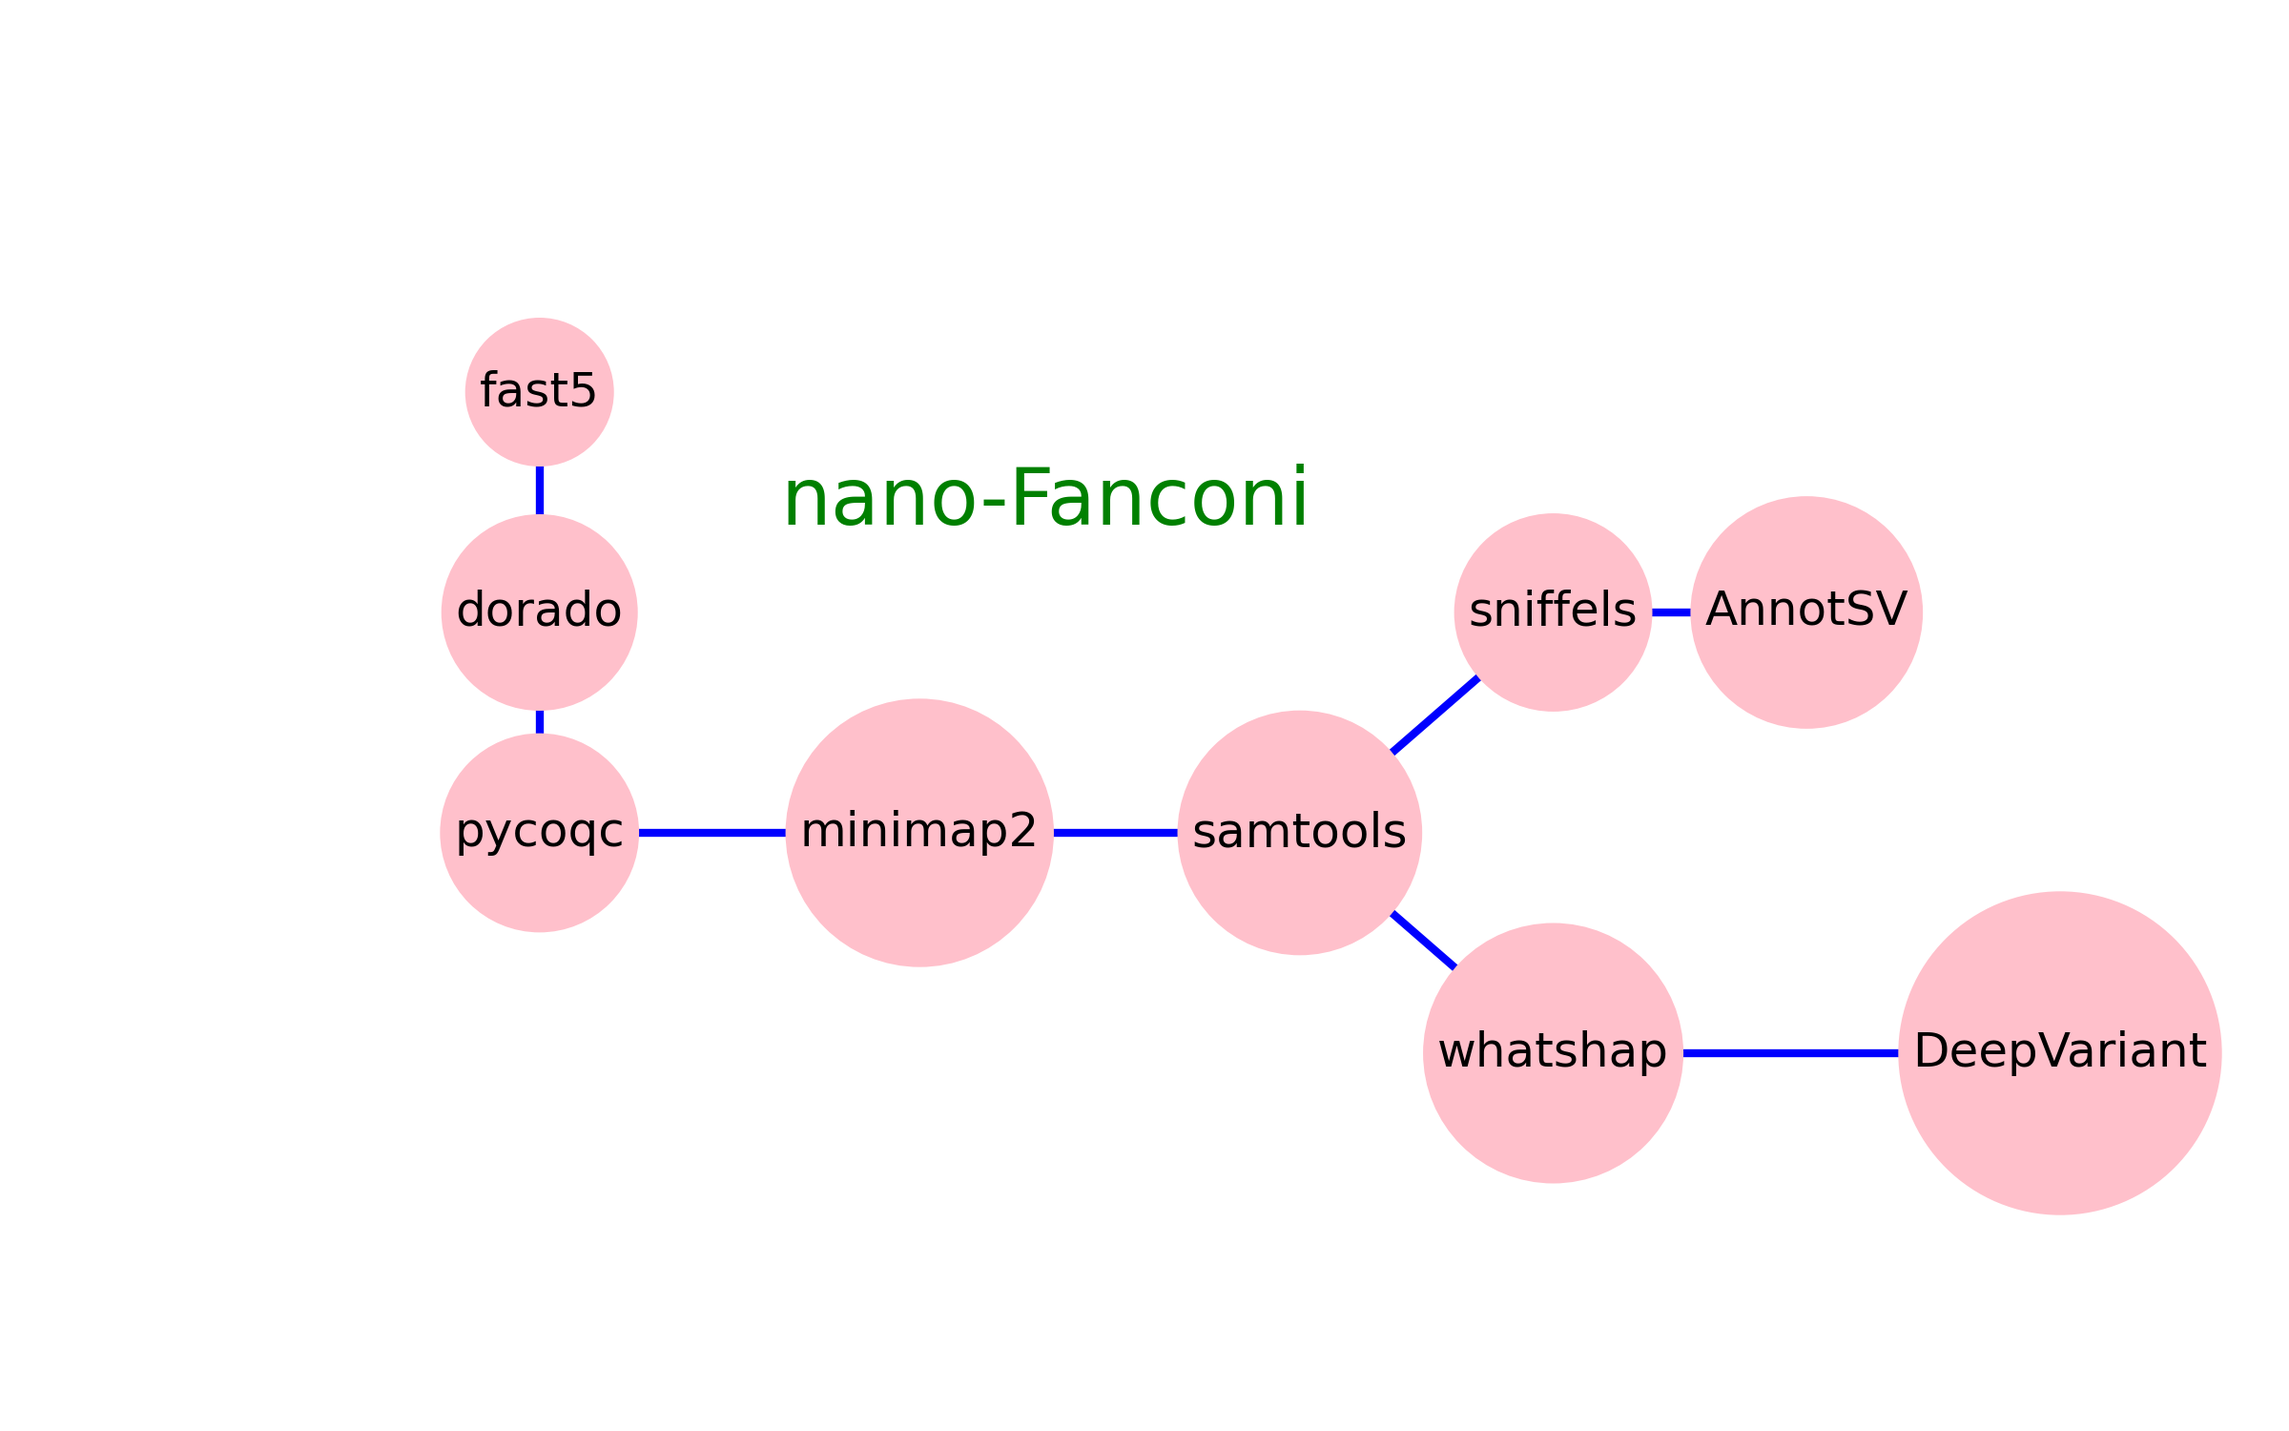
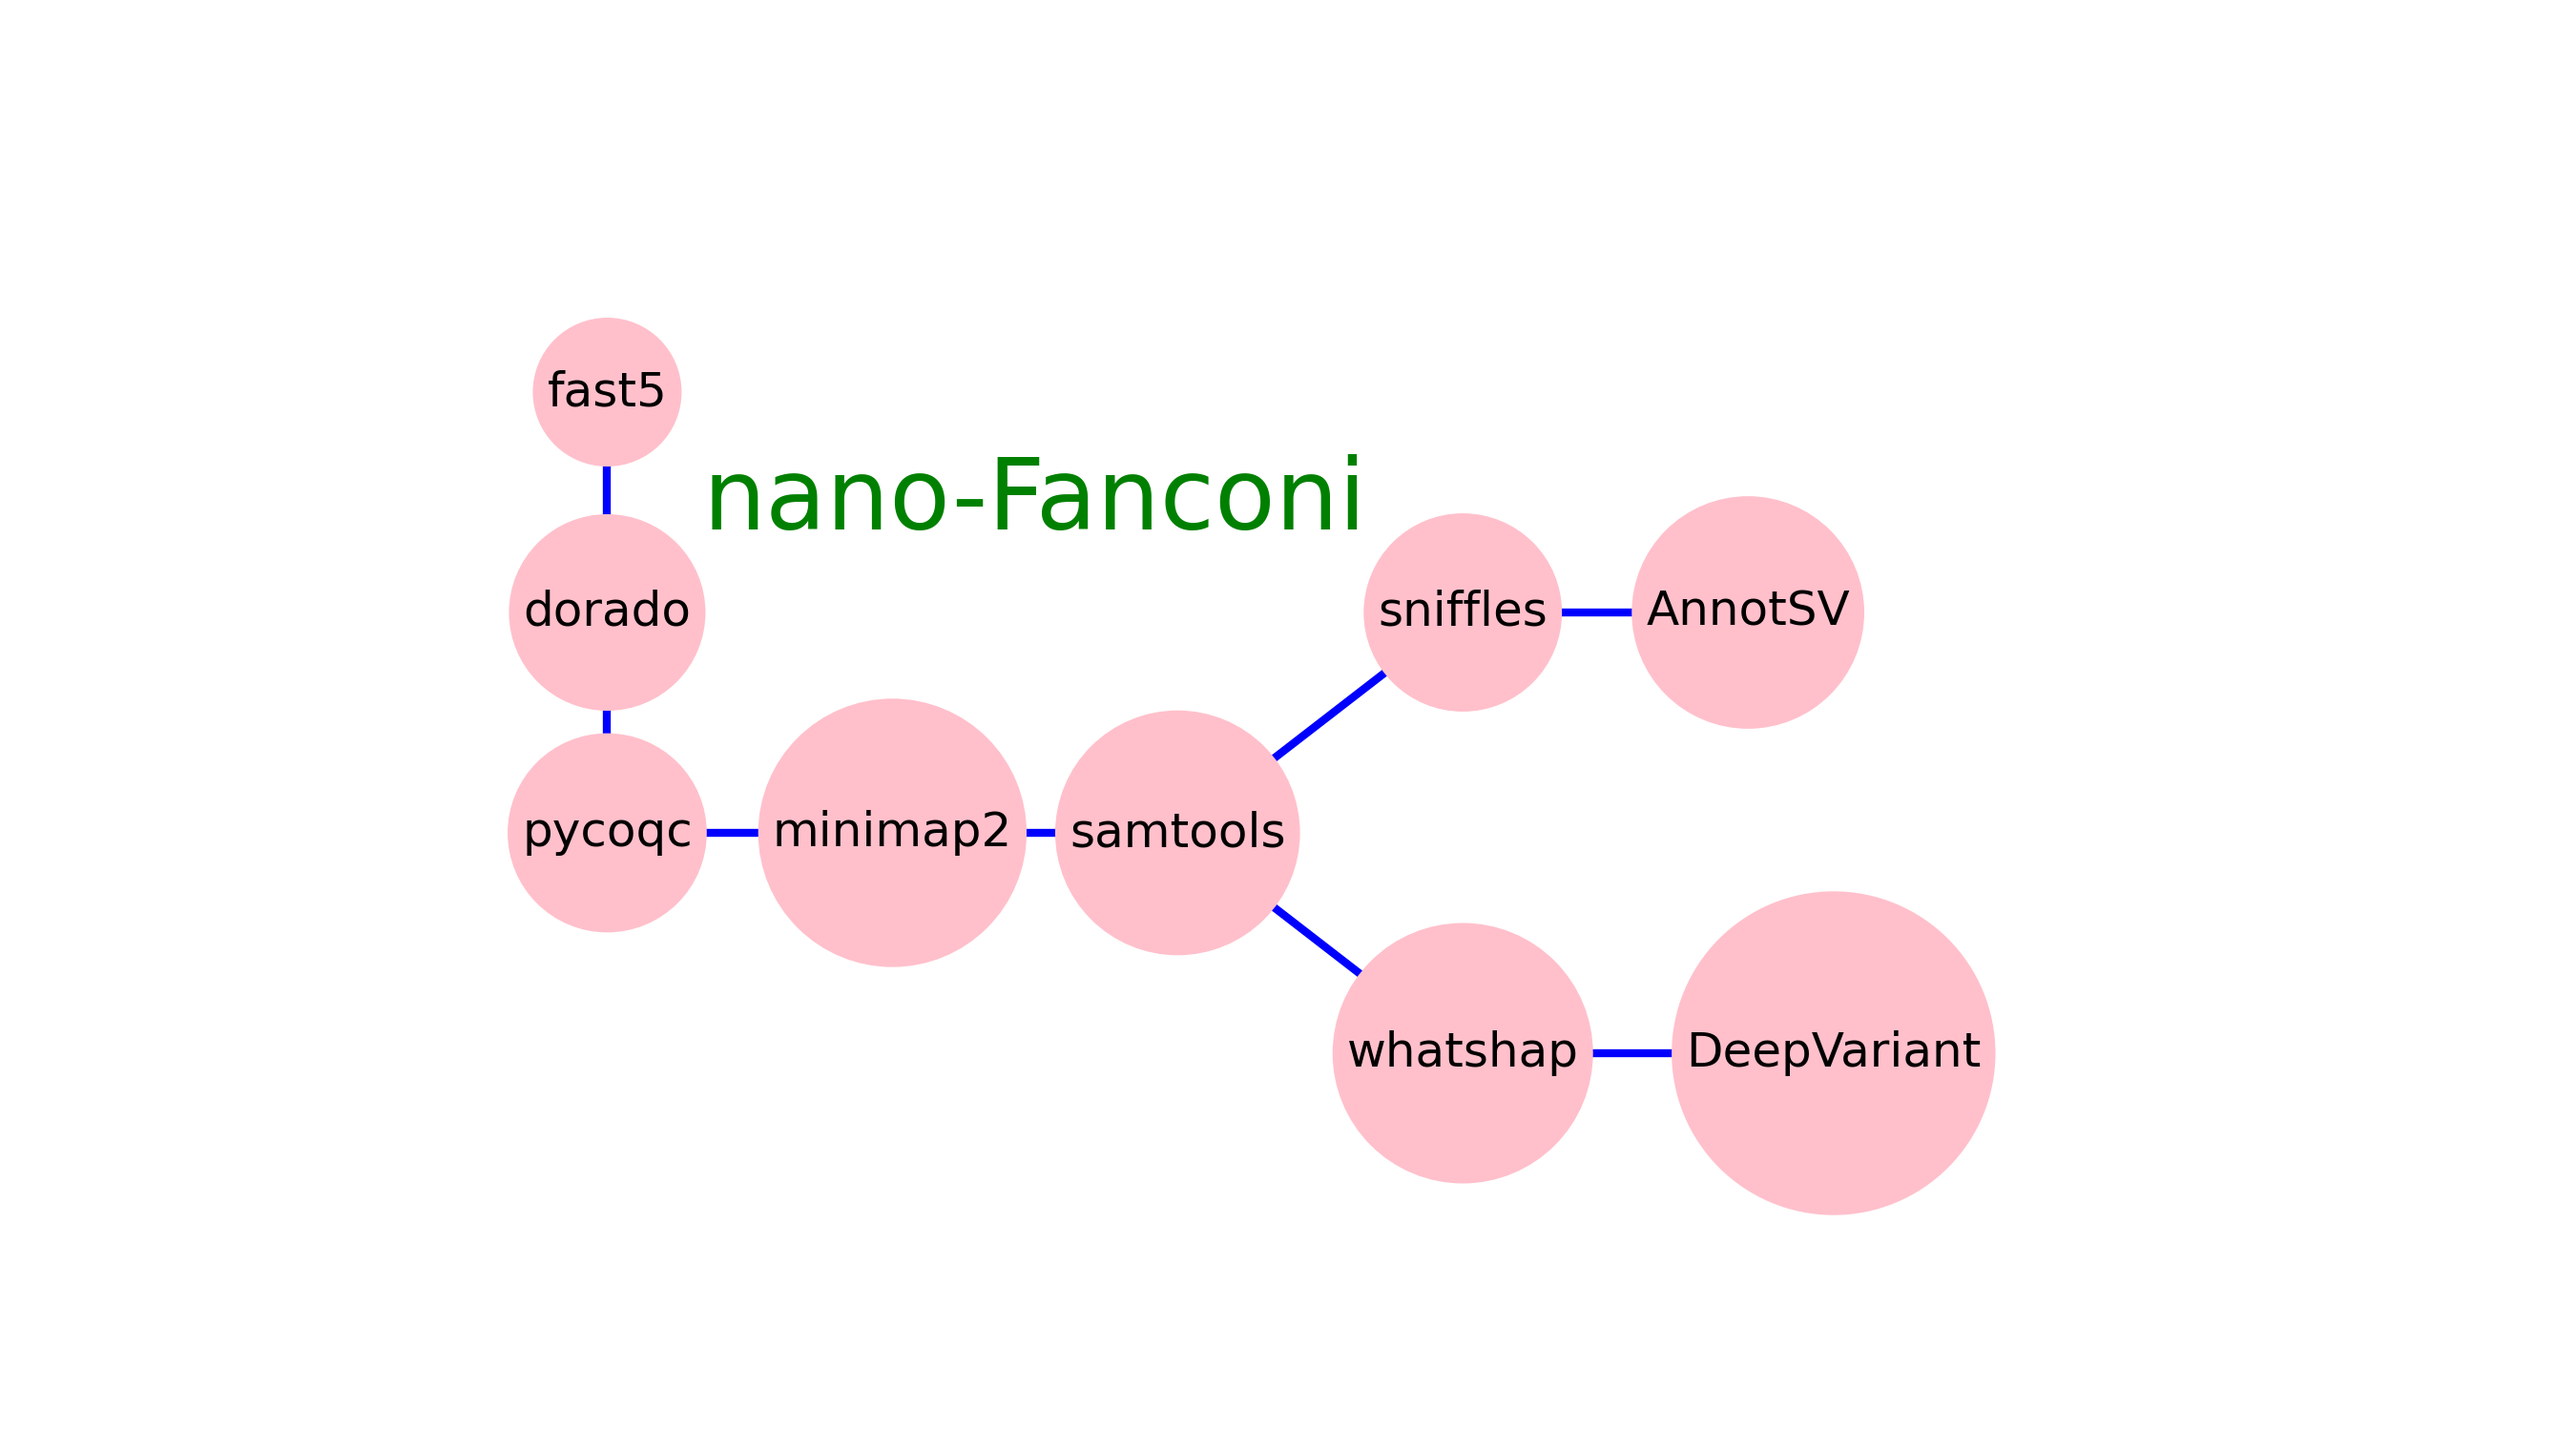
add sniffles

Changed region(s): [[0.1875, 0.3067, 0.9688, 0.8587], [0.1875, 0.2453, 0.2812, 0.3067]]

diff --git a/CITATIONS.md b/CITATIONS.md
@@ -34,3 +34,7 @@ The formate is based on https://github.com/dhslab/nf-core-wgsnano
 
 - [Singularity](https://pubmed.ncbi.nlm.nih.gov/28494014/)
   > Kurtzer GM, Sochat V, Bauer MW. Singularity: Scientific containers for mobility of compute. PLoS One. 2017 May 11;12(5):e0177459. doi: 10.1371/journal.pone.0177459. eCollection 2017. PubMed PMID: 28494014; PubMed Central PMCID: PMC5426675.
+
+- [Sniffles](https://www.ncbi.nlm.nih.gov/pmc/articles/PMC5990442/)
+
+  > Sedlazeck FJ, Rescheneder P, Smolka M, Fang H, Nattestad M, von Haeseler A, Schatz MC. Accurate detection of complex structural variations using single-molecule sequencing. Nat Methods. 2018 Jun;15(6):461-468. doi: 10 1038/s41592-018-0001-7. Epub 2018 Apr 30. PMID: 29713083; PMCID: PMC5990442.
